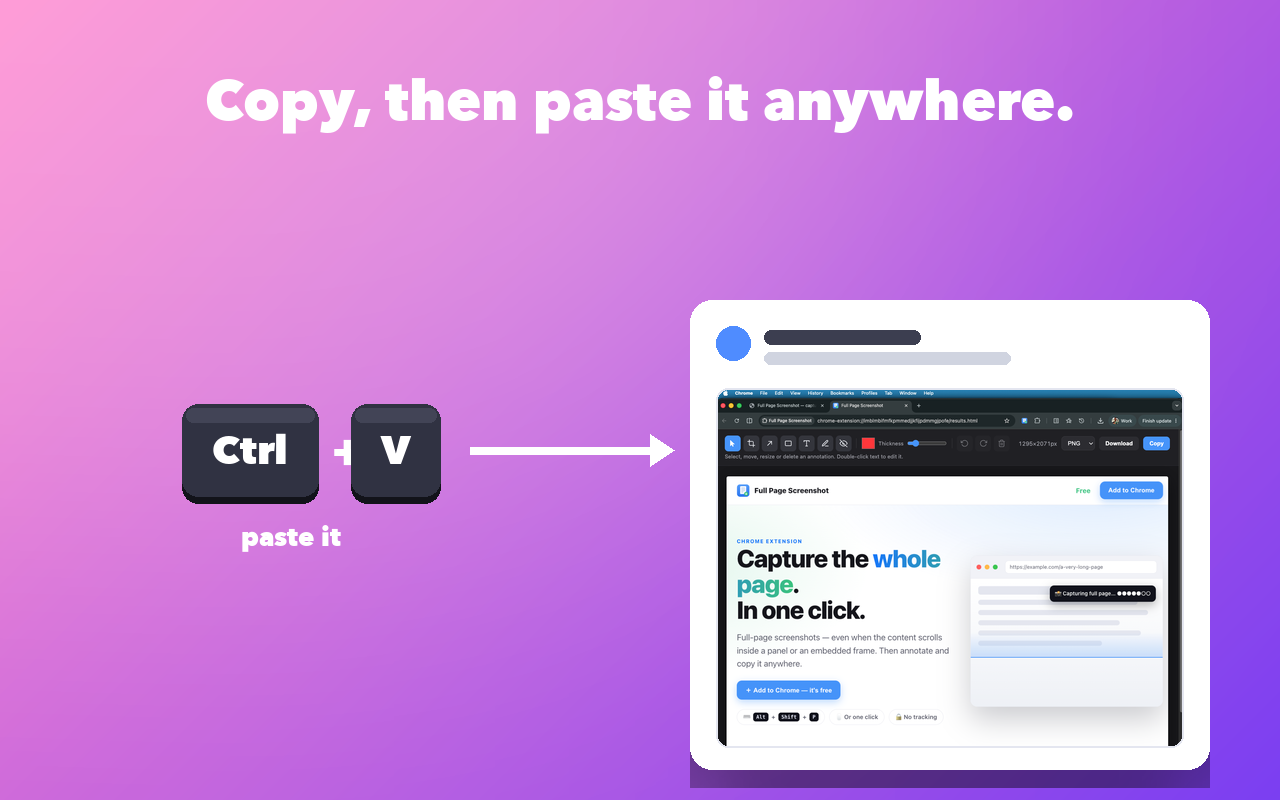
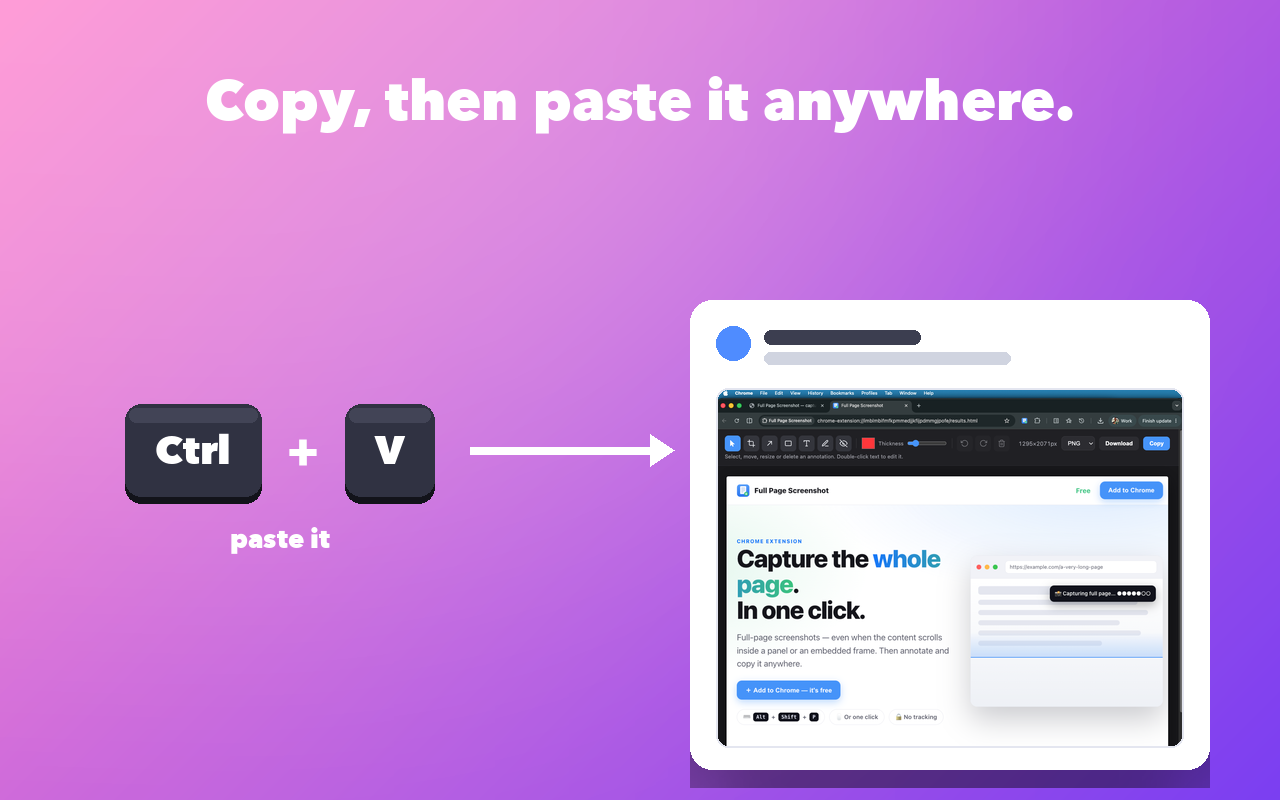
Fix tile 3 keycap layout: '+' no longer hidden behind the V key

Changed region(s): [[0.0938, 0.5, 0.3438, 0.6875]]

diff --git a/scripts/build-store-tiles.py b/scripts/build-store-tiles.py
@@ -110,16 +110,17 @@ def build_shot(cfg):
     print("built", cfg["out"], base.size)
 
 # ---- didactic paste tile (Ctrl + V → image appears in your app) ----
-def keycap(draw, cx, cy, label, font):
+def keycap(draw, x0, cy, label, font):
+    """Draw a keycap whose LEFT edge is x0; return its width."""
     tw = draw.textlength(label, font=font)
     asc, desc = font.getmetrics()
     pad = 30
     w = int(tw + pad * 2); h = 92
-    x0 = int(cx - w/2); y0 = int(cy - h/2)
+    x0 = int(x0); y0 = int(cy - h/2)
     draw.rounded_rectangle([x0, y0+7, x0+w, y0+h+7], radius=16, fill=(18, 19, 26))   # 3D base
     draw.rounded_rectangle([x0, y0, x0+w, y0+h], radius=16, fill=(48, 50, 66))       # top face
     draw.rounded_rectangle([x0+4, y0+4, x0+w-4, y0+18], radius=8, fill=(66, 68, 86)) # gloss
-    draw.text((cx - tw/2, cy - (asc+desc)/2 + 2), label, font=font, fill=(255, 255, 255))
+    draw.text((x0 + (w - tw)/2, cy - (asc+desc)/2 + 2), label, font=font, fill=(255, 255, 255))
     return w
 
 def build_paste(cfg):
@@ -145,16 +146,25 @@ def build_paste(cfg):
     cd.rounded_rectangle([26, 88, 26+pw-1, 88+crop_h-1], radius=12, outline=(228, 230, 240), width=2)
     base.paste(card, (cx0, cy0), rounded_mask((cw, ch), 22))
 
-    # keycaps: Ctrl + V on the left, arrow pointing into the card
+    # keycaps: Ctrl + V on the left, laid out left→right with a real gap for "+"
     kf = find_font(40)
+    pf = find_font(48)
     midy = cy0 + 150
-    w1 = keycap(draw, 250, midy, "Ctrl", kf)
-    pf = find_font(46)
-    draw.text((250 + w1/2 + 14, midy - 30), "+", font=pf, fill=(255, 255, 255))
-    keycap(draw, 250 + w1/2 + 78, midy, "V", kf)
+    gap = 26
+    wC = draw.textlength("Ctrl", font=kf) + 60
+    wV = draw.textlength("V", font=kf) + 60
+    wPlus = draw.textlength("+", font=pf)
+    total = wC + gap + wPlus + gap + wV
+    gx = 280  # group center x
+    x = gx - total / 2
+    asc, desc = pf.getmetrics()
+    x += keycap(draw, x, midy, "Ctrl", kf) + gap
+    draw.text((x, midy - (asc + desc) / 2 + 2), "+", font=pf, fill=(255, 255, 255))
+    x += wPlus + gap
+    keycap(draw, x, midy, "V", kf)
     cap = find_font(26)
     lbl = "paste it"
-    draw.text((250 - draw.textlength(lbl, font=cap)/2 + w1*0.3, midy + 70), lbl, font=cap, fill=(255, 255, 255))
+    draw.text((gx - draw.textlength(lbl, font=cap) / 2, midy + 72), lbl, font=cap, fill=(255, 255, 255))
 
     # arrow → into the card
     ax0, ax1, ay = 470, 650, midy
